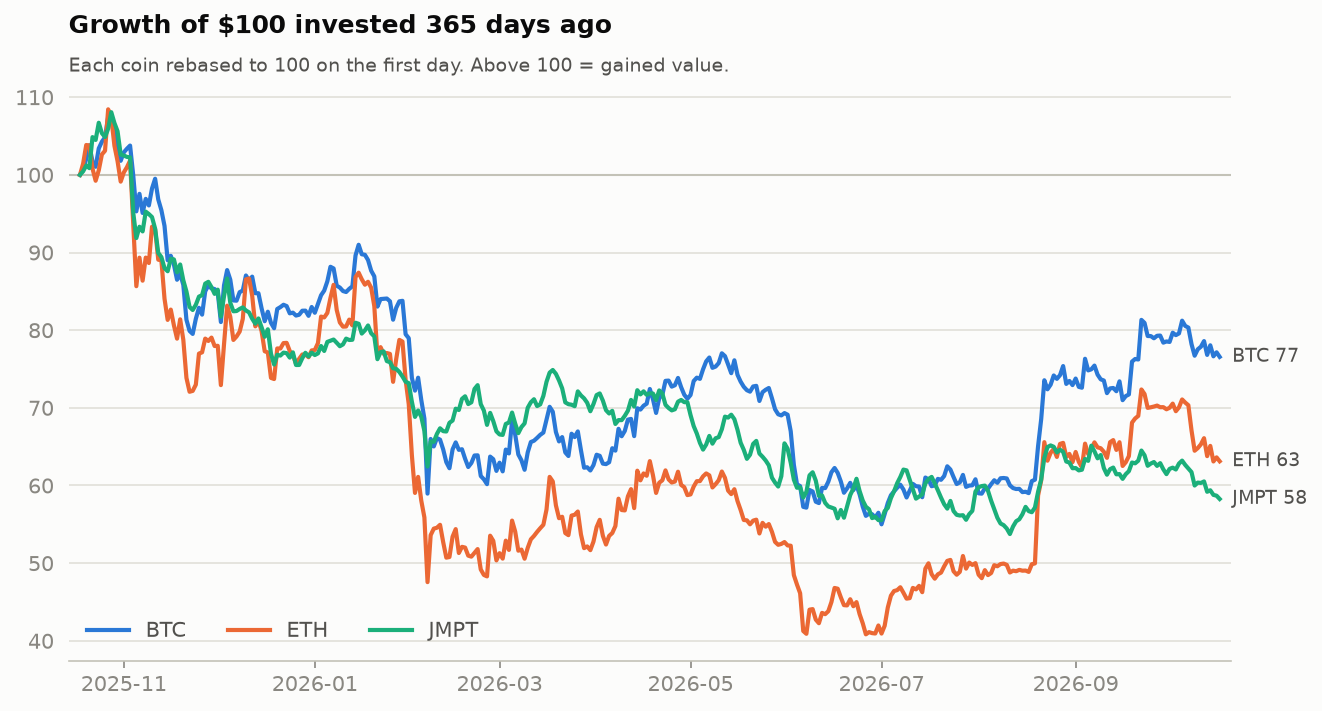
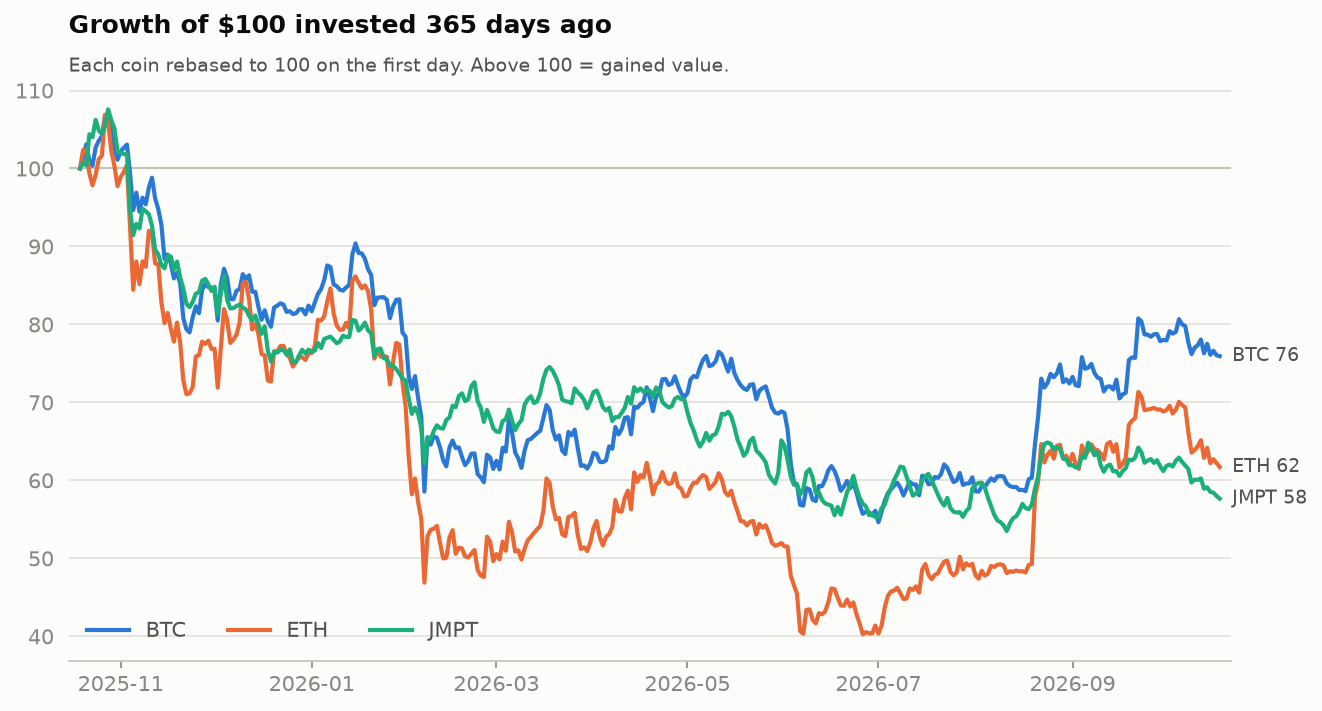
data: market update 2026-10-18

diff --git a/README.md b/README.md
@@ -9,13 +9,13 @@ The project compares two of the largest cryptocurrencies with a small-cap token:
 ## Latest stats
 
 <!-- STATS:START -->
-_Snapshot as of **2026-10-17 00:00 UTC**. Updated automatically every day._
+_Snapshot as of **2026-10-18 00:00 UTC**. Updated automatically every day._
 
 | Coin | Price | 1 day | 7 days | 30 days | 1 year | Volatility (30d) | Market cap |
 |:--|--:|--:|--:|--:|--:|--:|--:|
-| **BTC** Bitcoin | $81,524 | ▼ -0.8% | ▼ -1.3% | ▲ +7.1% | ▼ -24.6% | 38% | $1.64T |
-| **ETH** Ethereum | $2,421 | ▼ -0.8% | ▼ -2.6% | ▲ +0.2% | ▼ -37.8% | 43% | $295.65B |
-| **JMPT** JumpToken | $0.5354 | ▼ -0.7% | ▼ -3.5% | ▼ -5.2% | ▼ -44.2% | 22% | $7.90M |
+| **BTC** Bitcoin | $81,408 | ▼ -0.1% | ▼ -1.8% | ▲ +6.6% | ▼ -23.5% | 38% | $1.64T |
+| **ETH** Ethereum | $2,400 | ▼ -0.8% | ▼ -4.2% | ▼ -1.9% | ▼ -37.4% | 43% | $293.18B |
+| **JMPT** JumpToken | $0.5322 | ▼ -0.6% | ▼ -4.0% | ▼ -6.4% | ▼ -42.1% | 21% | $7.86M |
 <!-- STATS:END -->
 
 ## Charts
